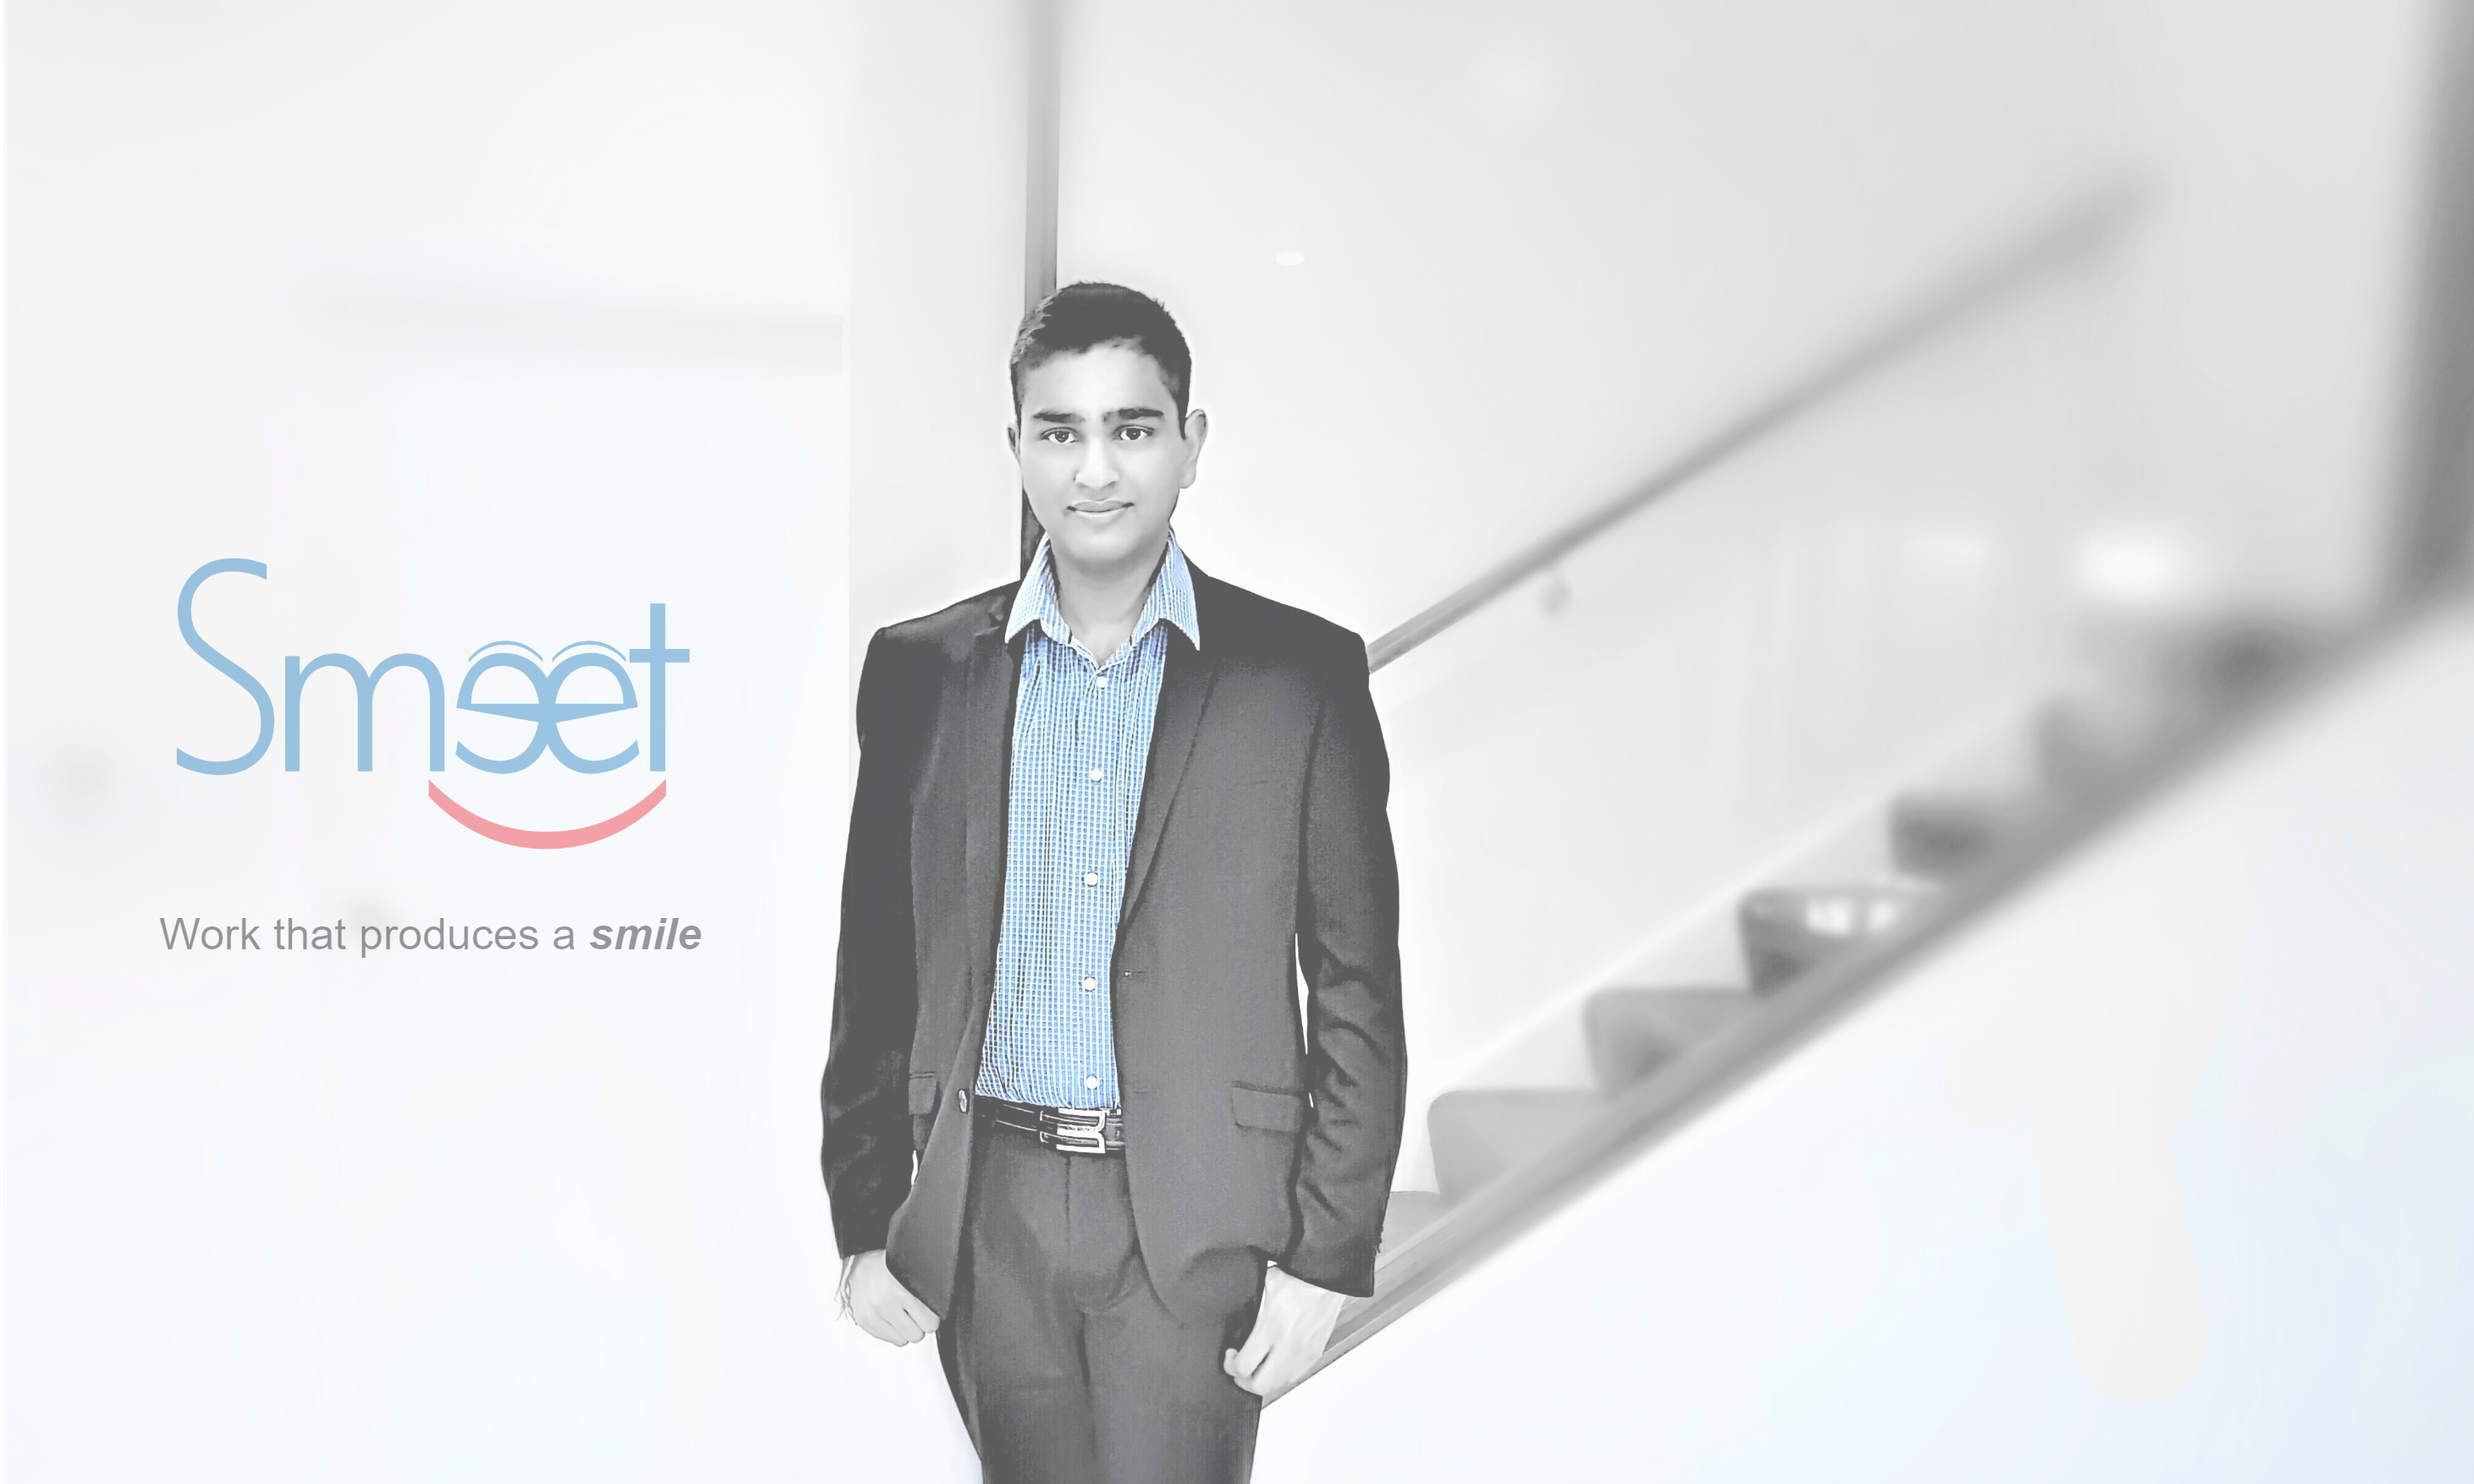
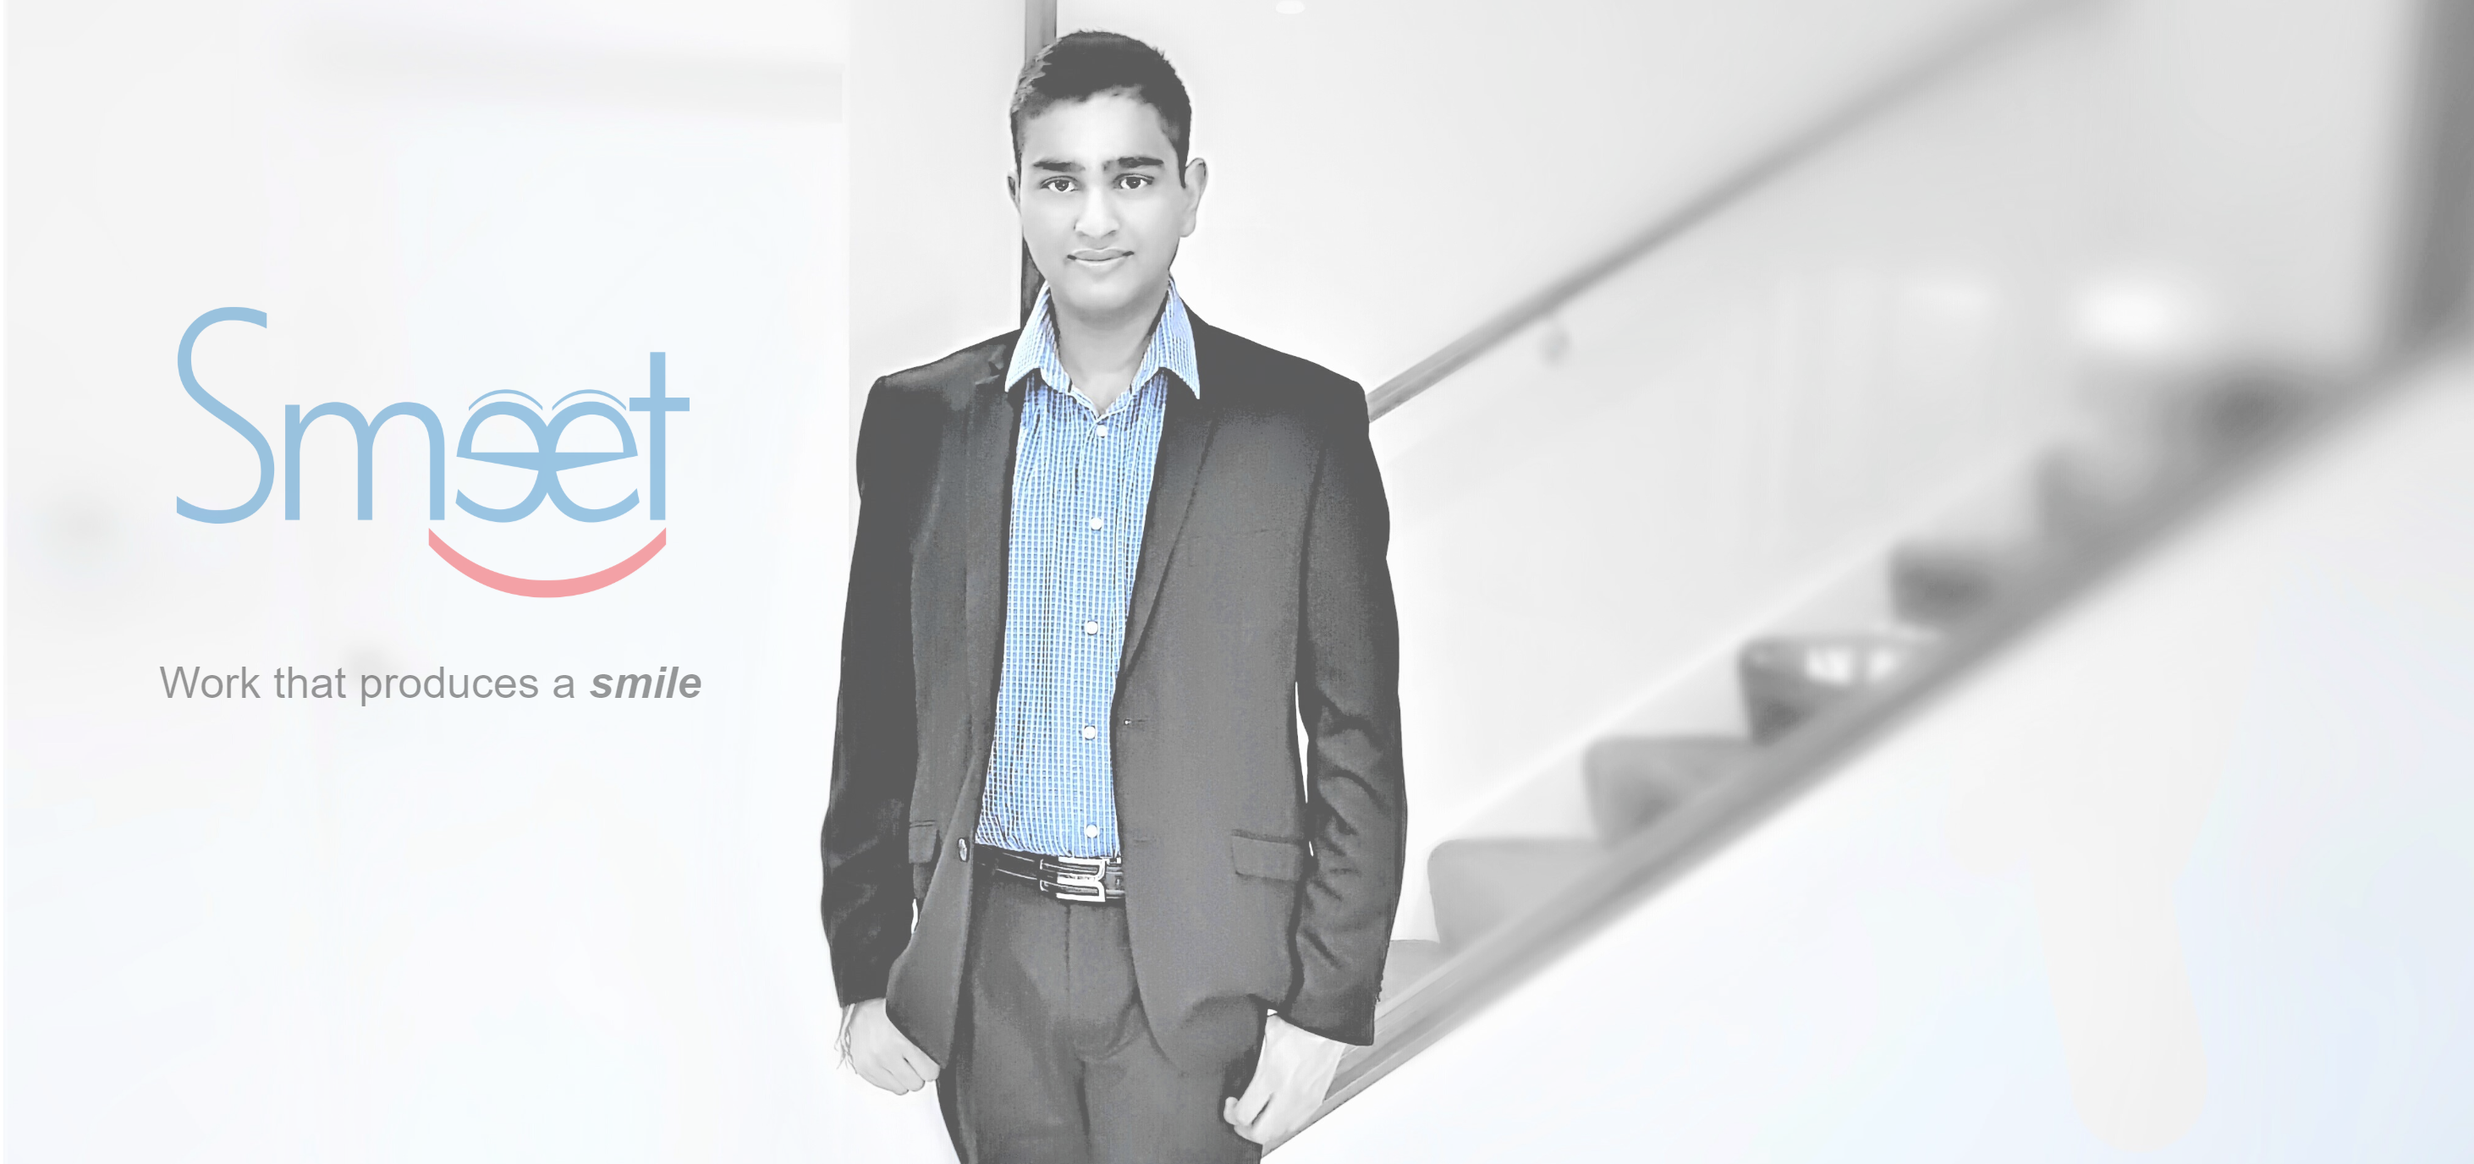
text wrap

diff --git a/index.html b/index.html
@@ -26,12 +26,14 @@
 	  <a href="javascript:void(0);" style="font-size:15px;" class="menubutton" onclick="myFunction()">&#9776;</a>
 	</div>
 
+<div class="cont">
 <p class="intro">Hello! My name is <b><em>Smeet</em></b>.</p><b>
-<pre class="biggerfont">Welcome to my website. <i>I am passionate about web design, mobile and project orientated task and a travel enthusiast.</i></pre><p class="biggerfont">I am a Master of Software Development student @ Victoria University of Wellington (VUW).
+<pre class="biggerfont">Welcome to my website. <i>I am passionate about web design, mobile and project orientated task and I am a travel enthusiast.</i></pre><p class="biggerfont1">I am a Master of Software Development student @ Victoria University of Wellington (VUW).
 </p>
+</div>
 <!---------------------------------------------------------->
 <!-- Index Page Banner ------------------------------------->	
-<img src="smeet1.png" alt="Smeet" style="width:100%">
+<img src="smeet1less.png" alt="Smeet" style="width:100%">
 
 <!---------------------------------------------------------->
 <!-- Footer with Icons ------------------------------------->

diff --git a/style.css b/style.css
@@ -13,17 +13,32 @@ html, body {
 	/*background: #f1f1f1;*/
 }
 
-.intro, .biggerfont{
+.intro, .biggerfont, .biggerfont1{
     text-align: center;
 	color: #0F78C3;
 }
 
 .biggerfont{
-	font-size:1.5vw;
+	font-size:2vw;
+	white-space: pre-wrap;
+	line-height: 1.6;
 }
 
 .intro{
+	line-height: 30%;
 	font-size:3vw;
+}
+
+.biggerfont1{
+	line-height: 50%;
+	font-size:1.8vw;
+}
+
+.cont{
+	width:90%;
+	margin:auto ;
+	padding: 0;
+	
 }
 
 /* =============== NAV BAR CODE ===============*/
